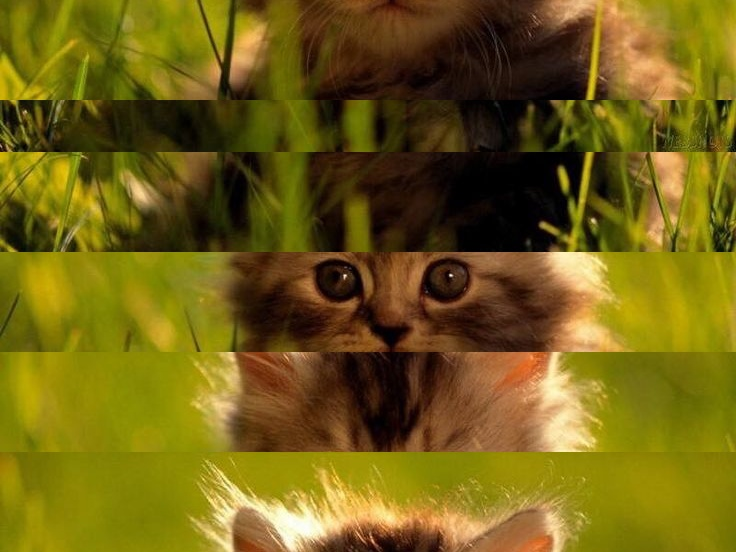
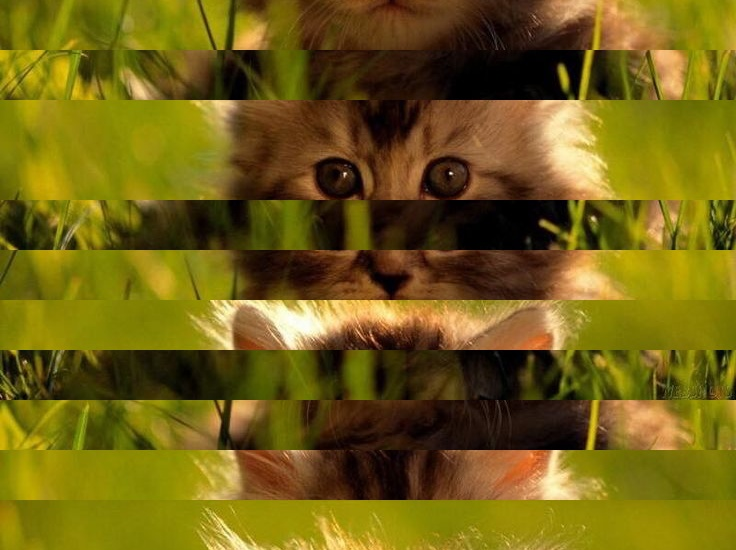
Some commit

diff --git a/Lab_1/lab_1_ext.py b/Lab_1/lab_1_ext.py
@@ -1,0 +1,53 @@
+import cv2
+import numpy as np
+
+
+def reconstruct_from_shuffled(img, stripe_h):
+    h = img.shape[0]
+
+    stripes = [img[i : i + stripe_h] for i in range(0, h, stripe_h)]
+    n = len(stripes)
+    if n <= 1:
+        return img.copy()
+
+    # Строим матрицу различий
+    diff = np.full((n, n), np.inf, dtype=np.float32)
+    for i in range(n):
+        for j in range(n):
+            if i != j:
+                diff[i, j] = np.mean(
+                    np.abs(
+                        stripes[i][-1].astype(np.float32)
+                        - stripes[j][0].astype(np.float32)
+                    )
+                )
+
+    # Находим стартовую полосу
+    top_incompat = [min(diff[i, j] for i in range(n) if i != j) for j in range(n)]
+    order = [int(np.argmax(top_incompat))]
+    used = [False] * n
+    used[order[0]] = True
+
+    # Жадная сборка
+    for _ in range(n - 1):
+        cur = order[-1]
+        nxt = min((j for j in range(n) if not used[j]), key=lambda j: diff[cur, j])
+        order.append(nxt)
+        used[nxt] = True
+
+    return np.vstack([stripes[i] for i in order])
+
+
+# main
+shuffled = cv2.imread(r"images\cat_in_grass_shuffled.jpg")
+if shuffled is None:
+    raise FileNotFoundError("Перемешанное изображение не найдено.")
+
+stripe_h = int(input("Введите высоту полосы: "))
+restored = reconstruct_from_shuffled(shuffled, stripe_h)
+
+cv2.imwrite(r"images\cat_in_grass_restored.jpg", restored)
+cv2.imshow("Shuffled", shuffled)
+cv2.imshow("Restored", restored)
+cv2.waitKey(0)
+cv2.destroyAllWindows()

diff --git a/Lab_1/lab_1.py b/Lab_1/lab_1.py
@@ -1,33 +1,34 @@
-import cv2
+from cv2 import imread, imwrite, imshow, waitKey
 import numpy as np
 import random
 
 # Загрузка изображения
-im = cv2.imread(r"images\cat_in_grass.jpg")
+im = imread(r"images\cat_in_grass.jpg")
 if im is None:
     raise FileNotFoundError("Изображение не найдено. Проверьте путь.")
 
 h, w = im.shape[:2]
-stripe_h = 100
-# stripe_h = int(input("Введите высоту полосы: "))
+print("Высота изображения:", h)
+# stripe_h = 100
+stripe_h = int(input("Введите высоту полосы: "))
 
 # На полосы
-stripes = [im[i : i + stripe_h].copy() for i in range(0, h, stripe_h)]
+new_h = (h // stripe_h) * stripe_h
+im_cropped = im[:new_h]
+stripes = [im_cropped[i : i + stripe_h].copy() for i in range(0, h, stripe_h)]
 
 random.shuffle(stripes)
-
-shuffled = np.zeros_like(im)
 
 y = 0
 for stripe in stripes:
     h_s = stripe.shape[0]
-    im[y : y + h_s, :] = stripe
+    im_cropped[y : y + h_s, :] = stripe
     y += h_s
 
 # Результат
-cv2.imshow("Shuffled", im)
-key = cv2.waitKey(0)
+imshow("Shuffled", im_cropped)
+key = waitKey(0)
 
 if key == 13:
-    cv2.imwrite(r"images\cat_in_grass_shuffled.jpg", im)
-cv2.destroyAllWindows()
+    imwrite(r"images\cat_in_grass_shuffled.jpg", im_cropped)
+    print("Изображение сохранено!")
